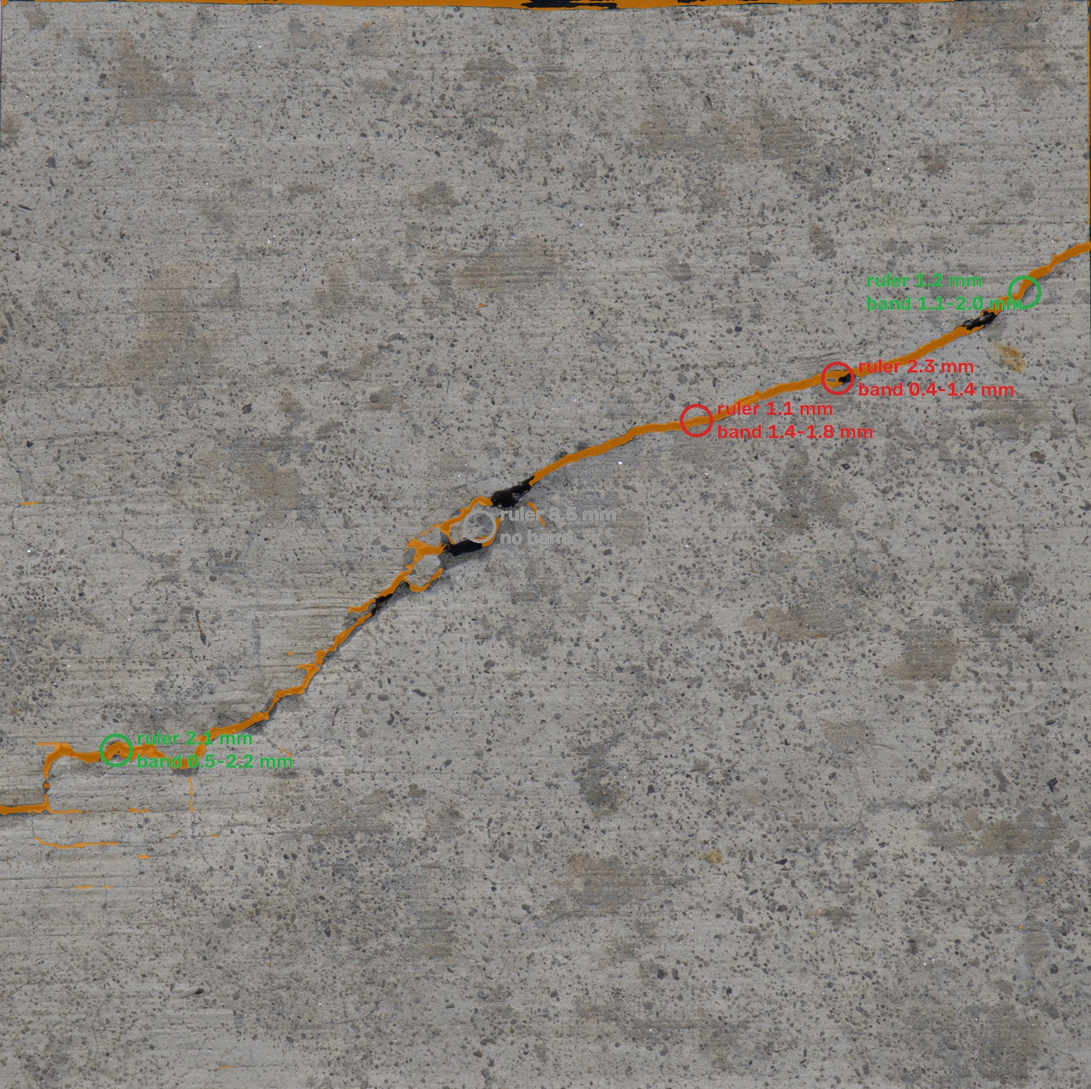
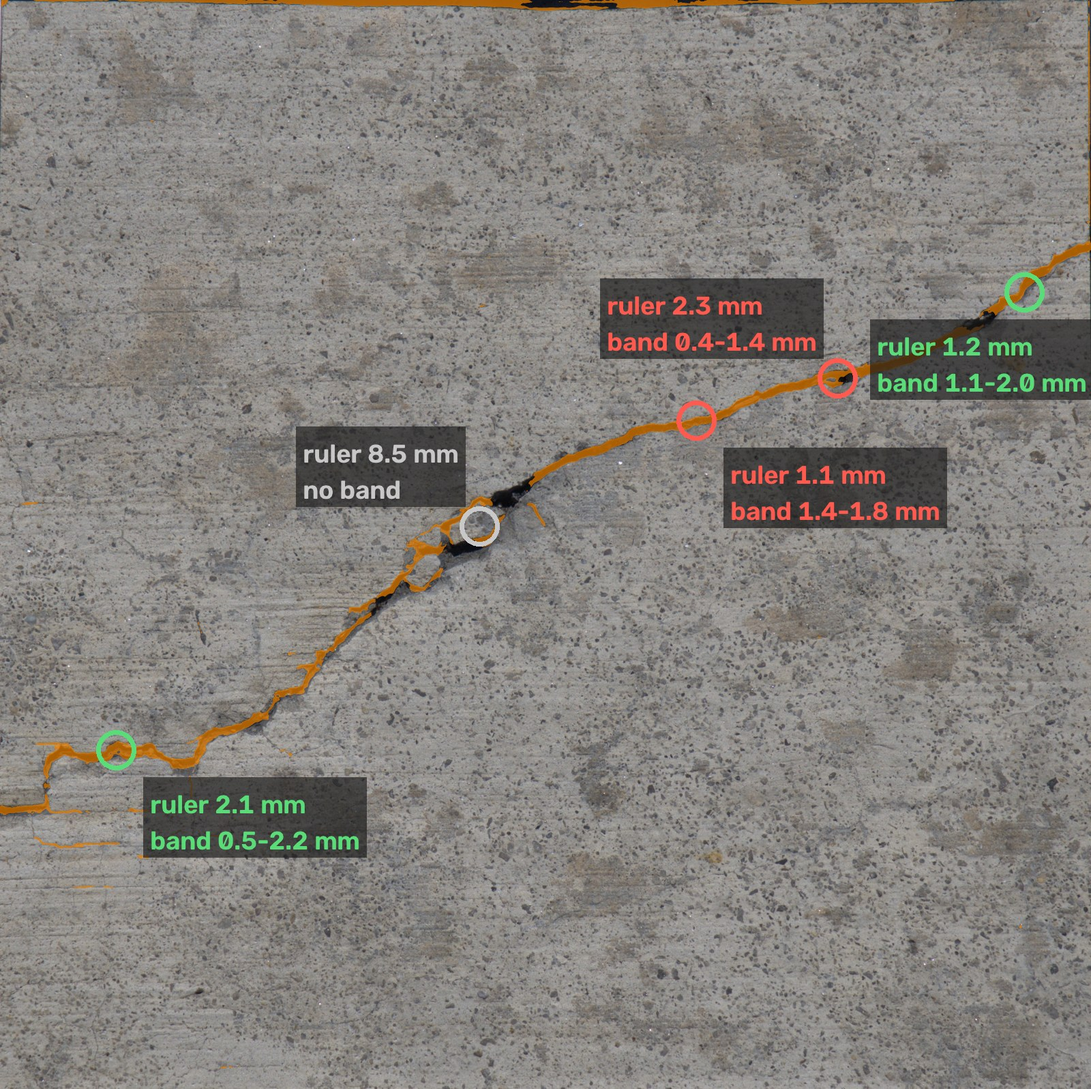
vt_figure: readable labels, alternating sides
Claude-Session: https://claude.ai/code/session_011kZF26GXtRbG4tFfcXUMcm

Changed region(s): [[0.5312, 0.2456, 1.0, 0.4912], [0.25, 0.3684, 0.5625, 0.5219], [0.0625, 0.6754, 0.3438, 0.7982]]

diff --git a/tools/vt_figure.py b/tools/vt_figure.py
@@ -24,7 +24,7 @@ sys.path.insert(0, str(Path(__file__).resolve().parents[1]))
 
 from tools.eval_vt import dist_dir  # noqa: E402
 
-GREEN, RED, GREY, ORANGE = (40, 170, 70), (210, 40, 40), (150, 150, 150), (255, 140, 0)
+GREEN, RED, GREY, ORANGE = (90, 220, 120), (255, 90, 80), (200, 200, 200), (255, 140, 0)
 
 
 def held(p: dict) -> bool | None:
@@ -49,16 +49,25 @@ def draw(rgb: np.ndarray, mask: np.ndarray, points: list[dict], width: int = 160
     out = out.astype(np.uint8)
     k = width / out.shape[1]
     out = cv2.resize(out, (width, round(out.shape[0] * k)), interpolation=cv2.INTER_AREA)
-    for p in points:
+    font, scale, thick = cv2.FONT_HERSHEY_SIMPLEX, 1.3, 3
+    # labels alternate below-right / above-left along the crack so neighbours do not overlap
+    for i, p in enumerate(sorted(points, key=lambda q: q["x"])):
         x, y = round(p["x"] * k), round(p["y"] * k)
         h = held(p)
         color = GREY if h is None else (GREEN if h else RED)
         band = "no band" if h is None else f"band {p['band_mm'][0]:.1f}-{p['band_mm'][1]:.1f} mm"
-        cv2.circle(out, (x, y), 22, color, 4)
-        for i, line in enumerate((f"ruler {p['truth_mm']:g} mm", band)):
-            org = (min(x + 30, width - 330), y - 8 + 34 * i)
-            cv2.putText(out, line, org, cv2.FONT_HERSHEY_SIMPLEX, 0.95, (255, 255, 255), 6, cv2.LINE_AA)
-            cv2.putText(out, line, org, cv2.FONT_HERSHEY_SIMPLEX, 0.95, color, 2, cv2.LINE_AA)
+        lines = (f"ruler {p['truth_mm']:g} mm", band)
+        cv2.circle(out, (x, y), 26, color, 5)
+        tw = max(cv2.getTextSize(s, font, scale, thick)[0][0] for s in lines)
+        lh = cv2.getTextSize("Ag", font, scale, thick)[0][1] + 18
+        x0 = x + 40 if i % 2 == 0 else x - 40 - tw
+        y0 = y + 40 if i % 2 == 0 else y - 40 - 2 * lh
+        x0 = int(min(max(x0, 8), width - tw - 16))
+        y0 = int(min(max(y0, 8), out.shape[0] - 2 * lh - 16))
+        box = out[y0:y0 + 2 * lh + 12, x0:x0 + tw + 20].astype(np.float32)
+        out[y0:y0 + 2 * lh + 12, x0:x0 + tw + 20] = (0.35 * box + 0.65 * np.array((25, 25, 25))).astype(np.uint8)
+        for j, s in enumerate(lines):
+            cv2.putText(out, s, (x0 + 10, y0 + lh * (j + 1)), font, scale, color, thick, cv2.LINE_AA)
     return out
 
 
